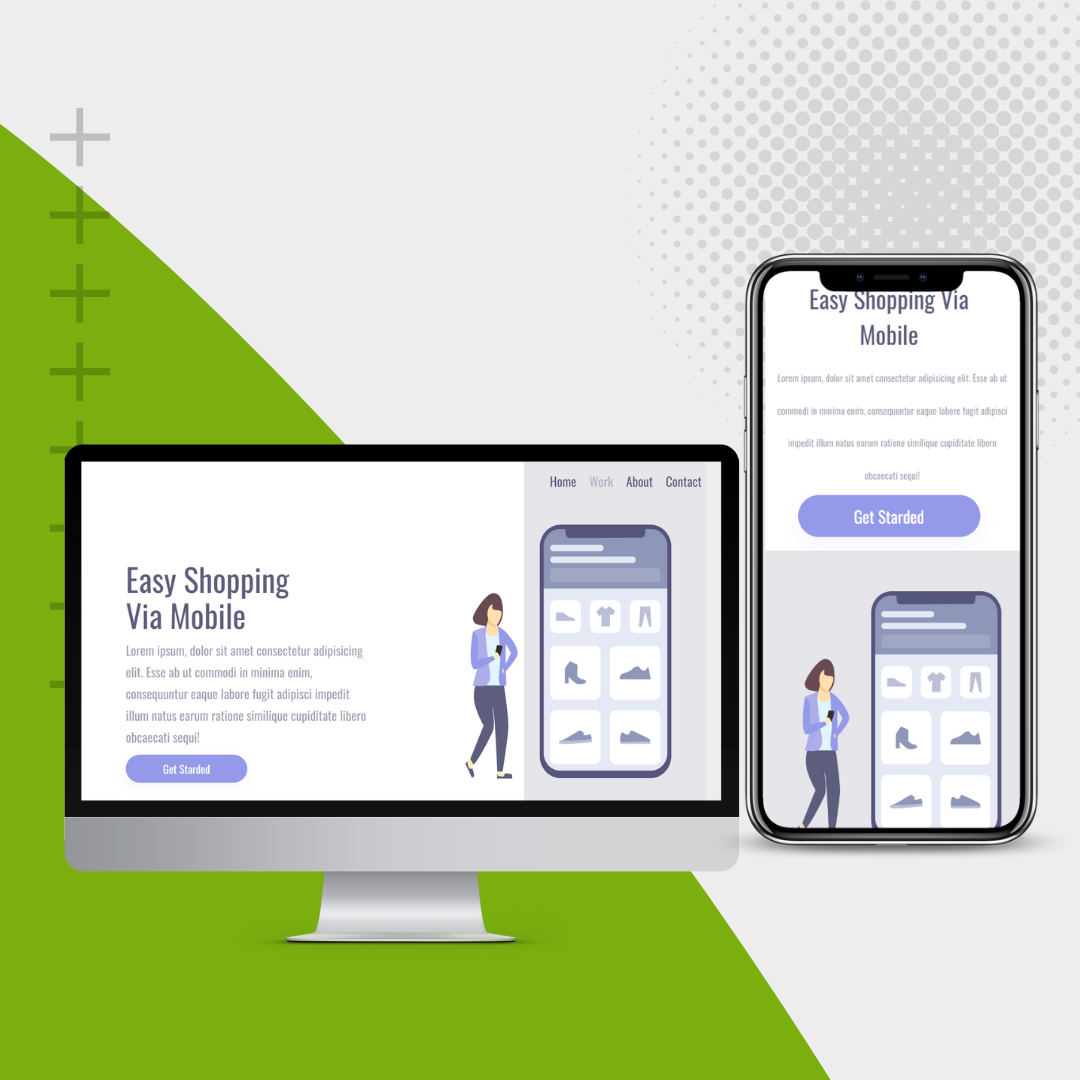
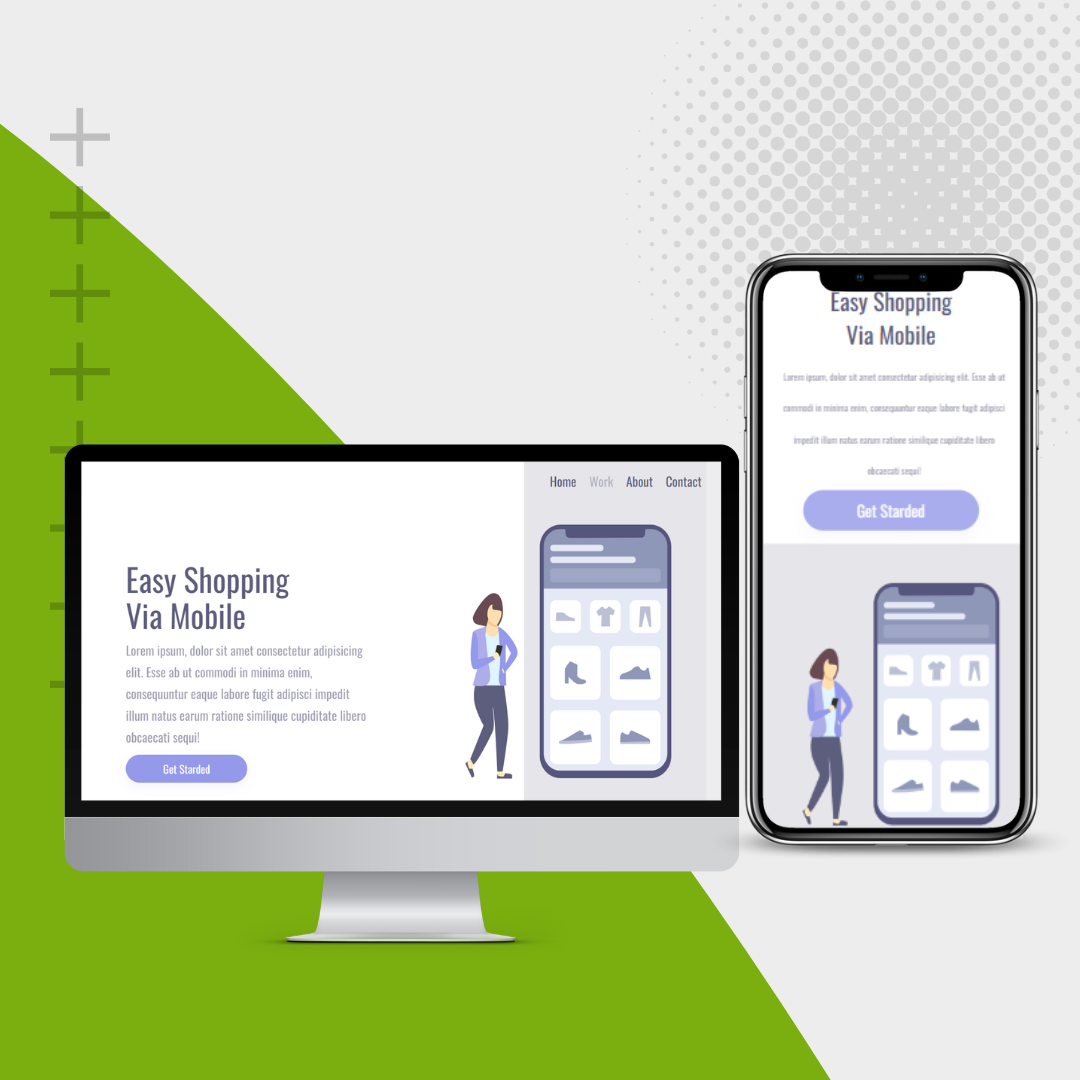
auteracao de imagem

Changed region(s): [[0.7028, 0.2444, 0.9472, 0.7639]]

diff --git a/index.html b/index.html
@@ -17,7 +17,7 @@
   <div class="wrapper">
     
     <section class="container-left">
-      <h1>Easy Shopping Via Mobile</h1>
+      <h1>Easy Shopping <br>Via Mobile</h1>
       <p> Lorem ipsum, dolor sit amet consectetur adipisicing elit. Esse ab ut commodi in minima enim, consequuntur eaque
         labore fugit adipisci impedit illum natus earum ratione similique cupiditate libero obcaecati sequi!</p>
       <button>Get Starded</button>
